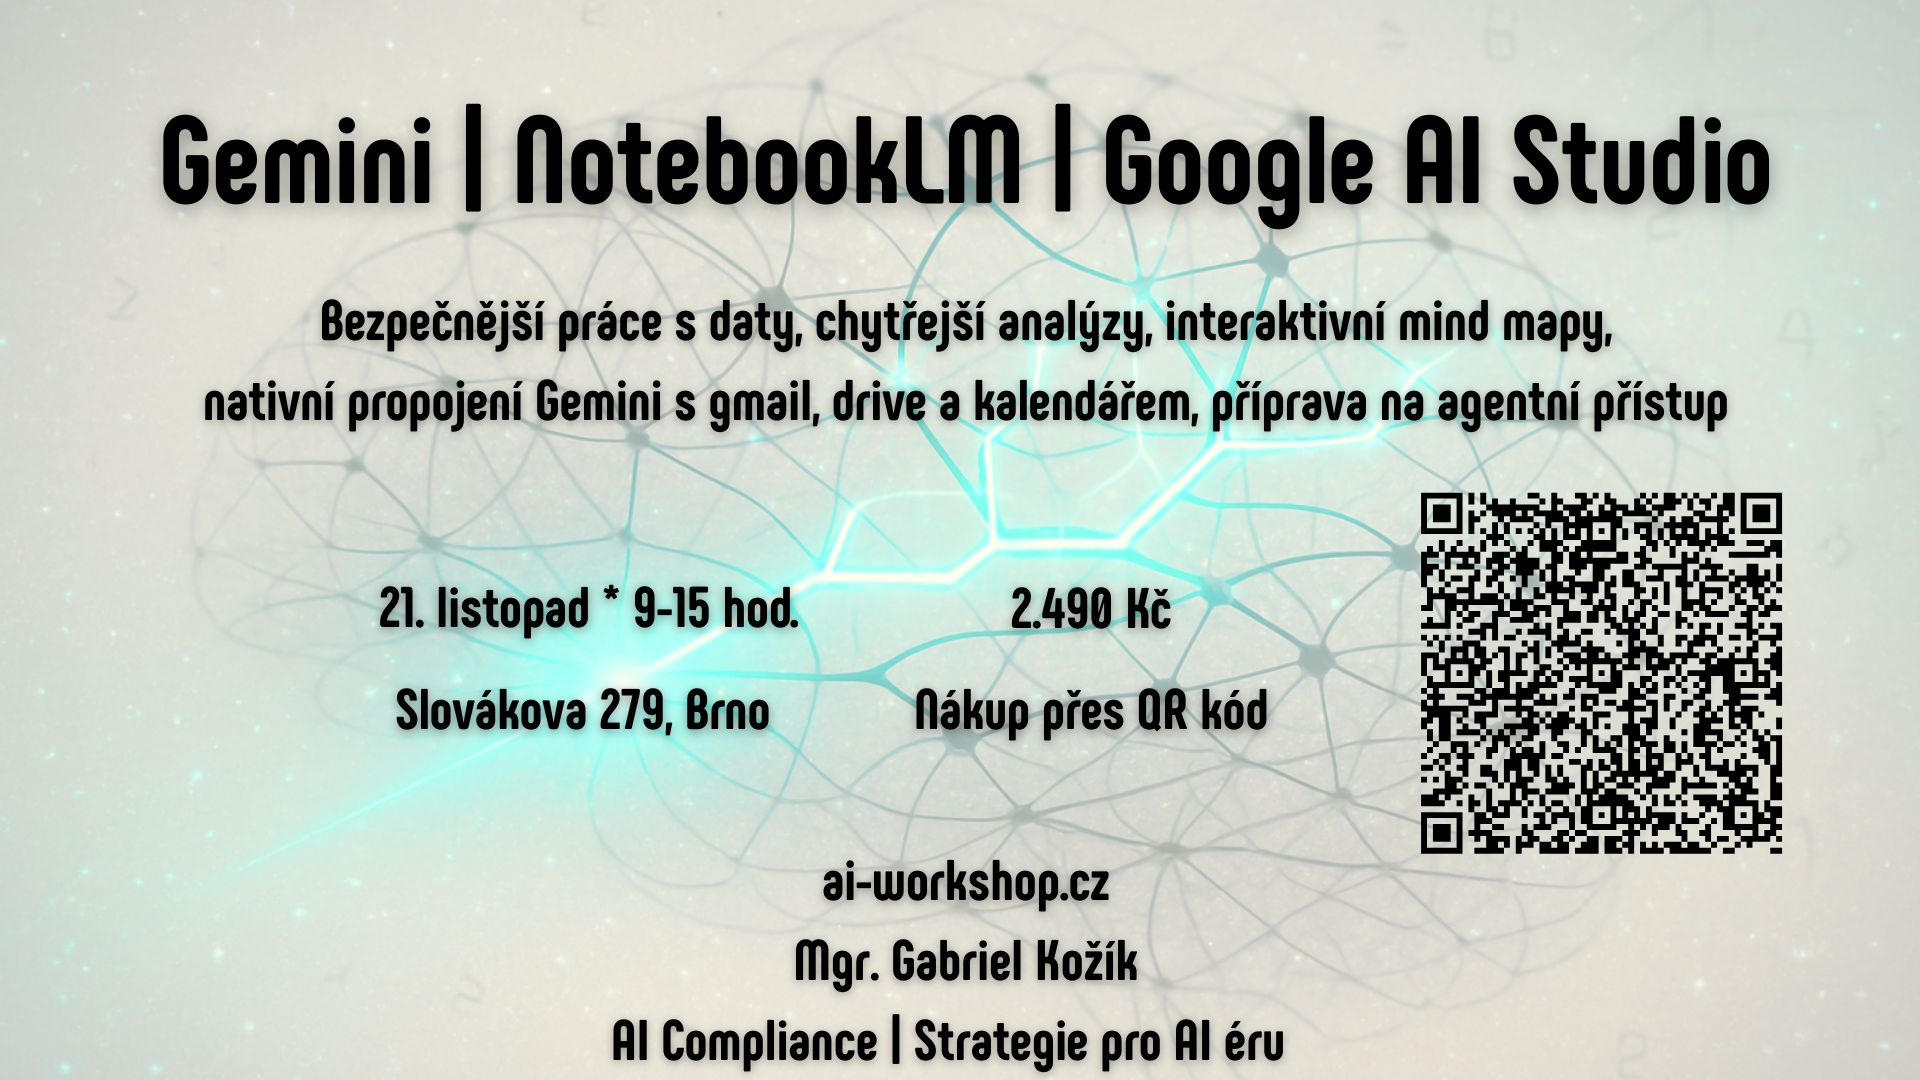
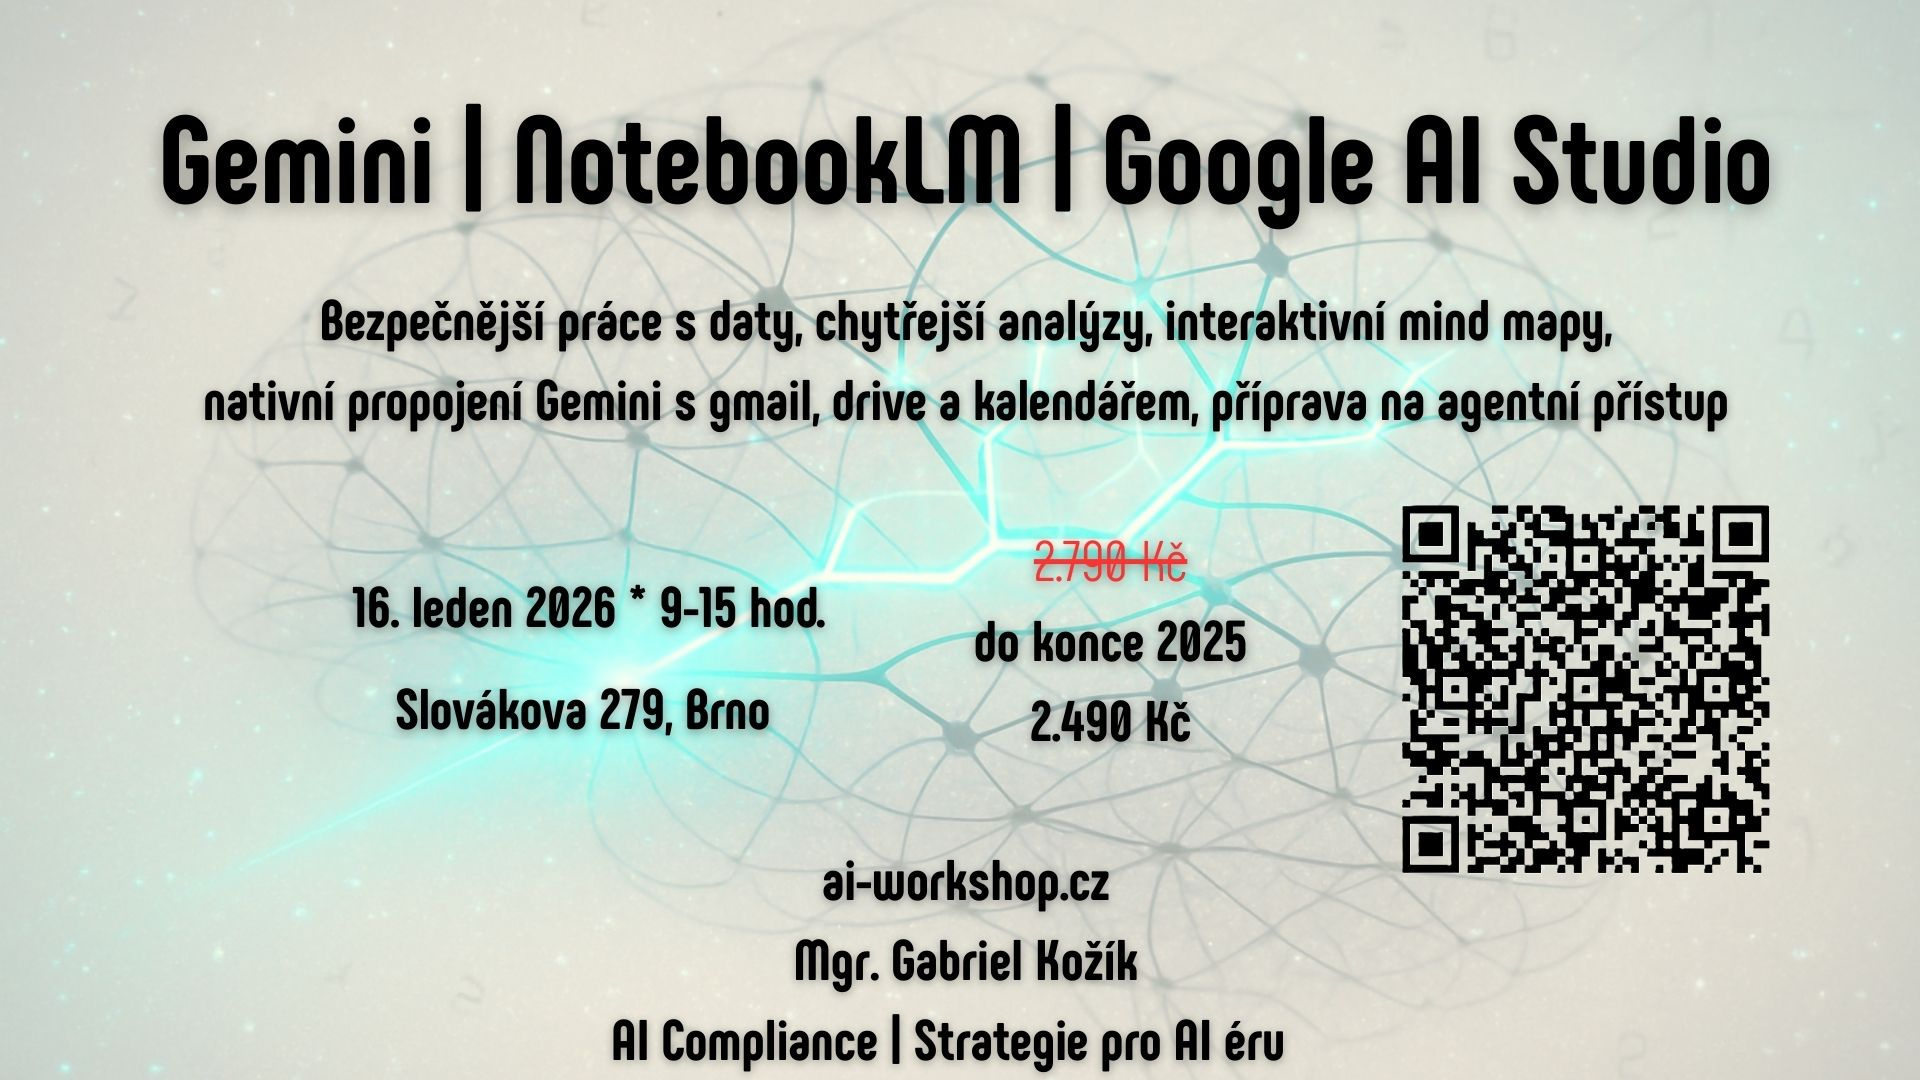
1

Changed region(s): [[0.7188, 0.4583, 0.9375, 0.825], [0.4688, 0.4889, 0.6875, 0.7028], [0.1875, 0.5194, 0.4375, 0.5806]]

diff --git a/index.html b/index.html
@@ -11,7 +11,7 @@
       gtag('config', 'AW-981380390');
     </script>
     
-    <!-- Původní snippet ponecháváme pro případné jiné použití, ale u registrace ho obejdeme -->
+    <!-- Konverzní skript pro nákup vstupenky -->
     <script>
     function gtag_report_conversion(url) {
       var callback = function () {
@@ -30,8 +30,8 @@
     </script>
 
     <meta name="viewport" content="width=device-width, initial-scale=1.0">
-    <title>AI Workshop: Business Excellence pro freelancery i firmy | BEA ČR</title>
-    <meta name="description" content="Praktický AI workshop v Brně (10.12.2025). Naučte se využívat Google Gemini a NotebookLM pro zrychlení práce, tvorbu obsahu a bezpečné podnikání. Lektor: Mgr. Gabriel Kožík.">
+    <title>AI Workshop: Gemini a NotebookLM pro praxi | Brno</title>
+    <meta name="description" content="Praktický AI workshop v Brně (16. 1. 2026). Naučte se využívat Google Gemini a NotebookLM pro zrychlení práce, tvorbu obsahu a bezpečné podnikání. Lektor: Mgr. Gabriel Kožík.">
     <link href="https://fonts.googleapis.com/css2?family=Roboto:wght@300;400;500;700&display=swap" rel="stylesheet">
     <link rel="icon" type="image/x-icon" href="favicon.ico">
     <link rel="canonical" href="https://ai-workshop.cz/" />
@@ -41,9 +41,9 @@
     [{
       "@context": "https://schema.org",
       "@type": "EducationEvent",
-      "name": "AI Workshop: Nástroje pro Business Excellence",
-      "startDate": "2025-12-10T09:00:00+01:00", 
-      "endDate": "2025-12-10T15:00:00+01:00",
+      "name": "AI Workshop: Nástroje Google pro freelancery a firmy",
+      "startDate": "2026-01-16T09:00:00+01:00", 
+      "endDate": "2026-01-16T15:00:00+01:00",
       "eventAttendanceMode": "https://schema.org/OfflineEventAttendanceMode",
       "eventStatus": "https://schema.org/EventScheduled",
       "location": {
@@ -63,8 +63,8 @@
       },
       "organizer": {
         "@type": "Organization",
-        "name": "BEA ČR",
-        "url": "https://beacr.cz"
+        "name": "Mgr. Gabriel Kožík",
+        "url": "https://ai-workshop.cz"
       }
     }]
     </script>
@@ -75,7 +75,6 @@
             --secondary-color: #2ca58d; /* Fresh Teal - Growth/Freelance friendly */
             --accent-color: #0077b6;
             --warning-color: #f59e0b;
-            --bea-red: #e30613; /* BEA Brand Accent */
             --text-color: #333;
             --light-gray: #f8f9fa;
             --white: #ffffff;
@@ -380,7 +379,7 @@
             color: rgba(255, 255, 255, 0.8);
             padding: 60px 20px;
             text-align: center;
-            border-top: 5px solid var(--bea-red); /* BEA accent */
+            border-top: 5px solid var(--secondary-color); /* Updated accent */
         }
         footer a { color: var(--secondary-color); text-decoration: none; }
         footer a:hover { text-decoration: underline; }
@@ -407,7 +406,7 @@
     <nav class="landing-nav">
         <a href="#" class="landing-nav-title">
             <img src="favicon.ico" alt="AI Workshop">
-            <span>AI Workshop: Business Excellence</span>
+            <span>AI Workshop: Gemini & NotebookLM</span>
         </a>
         <a href="#kontakt" class="landing-nav-contact">Poptat školení</a>
     </nav>
@@ -423,7 +422,7 @@
             <div class="workshop-details-box">
                 <div class="detail-item">
                     <svg><use xlink:href="#icon-calendar"></use></svg>
-                    <span><strong>10. 12. 2025</strong></span>
+                    <span><strong>16. 1. 2026</strong></span>
                 </div>
                 <div class="detail-item">
                     <svg><use xlink:href="#icon-clock"></use></svg>
@@ -436,8 +435,8 @@
             </div>
 
             <div>
-                <!-- Odkaz otevíráme v nové kartě bez blokujícího přesměrování -->
-                <a href="https://beacr.cz/bea-cr/kalendar-akci/" target="_blank" class="cta-button" onclick="gtag('event', 'conversion', {'send_to': 'AW-981380390/GkccCMq-3bEbEKba-tMD', 'value': 0, 'currency': 'CZK'});">Registrace přes BEA ČR</a>
+                <!-- Odkaz vede na Influon checkout -->
+                <a href="https://app.influon.cz/o/podpalavou/aUVXNjBJbzg3Z2JJVFpYamlKUWpTMVRvYmVwdXEvK0EvamJlaTB1RFZHOTRTNS85RWV3VVlhSDMrQzMzVjdGTw==" target="_blank" class="cta-button" onclick="gtag('event', 'conversion', {'send_to': 'AW-981380390/GkccCMq-3bEbEKba-tMD', 'value': 0, 'currency': 'CZK'});">Koupit vstupenku</a>
             </div>
         </div>
     </header>
@@ -566,15 +565,12 @@
         <div class="container">
             <p><strong>Mgr. Gabriel Kožík</strong> | AI Stratég & Advokát</p>
             <p>Slovákova 279/11, Brno | IČO: 05187559</p>
-            <p style="margin-top: 15px; opacity: 0.8; font-size: 0.9em;">
-                Ve spolupráci s <a href="https://beacr.cz" target="_blank" style="color: #fff; text-decoration: underline;">BEA ČR</a> (Business Excellence Association).
-            </p>
             <div style="margin-top: 30px;">
                 <a href="licence.html">Průvodce Compliance</a> | 
                 <a href="srovnani.html">Srovnání Nástrojů</a> | 
                 <a href="https://www.gabrielkozik.com" target="_blank">O lektorovi</a>
             </div>
-            <p style="margin-top: 30px; font-size: 0.8em; opacity: 0.6;">&copy; 2025 Mgr. Gabriel Kožík. Všechna práva vyhrazena.</p>
+            <p style="margin-top: 30px; font-size: 0.8em; opacity: 0.6;">&copy; 2026 Mgr. Gabriel Kožík. Všechna práva vyhrazena.</p>
         </div>
     </footer>
     
